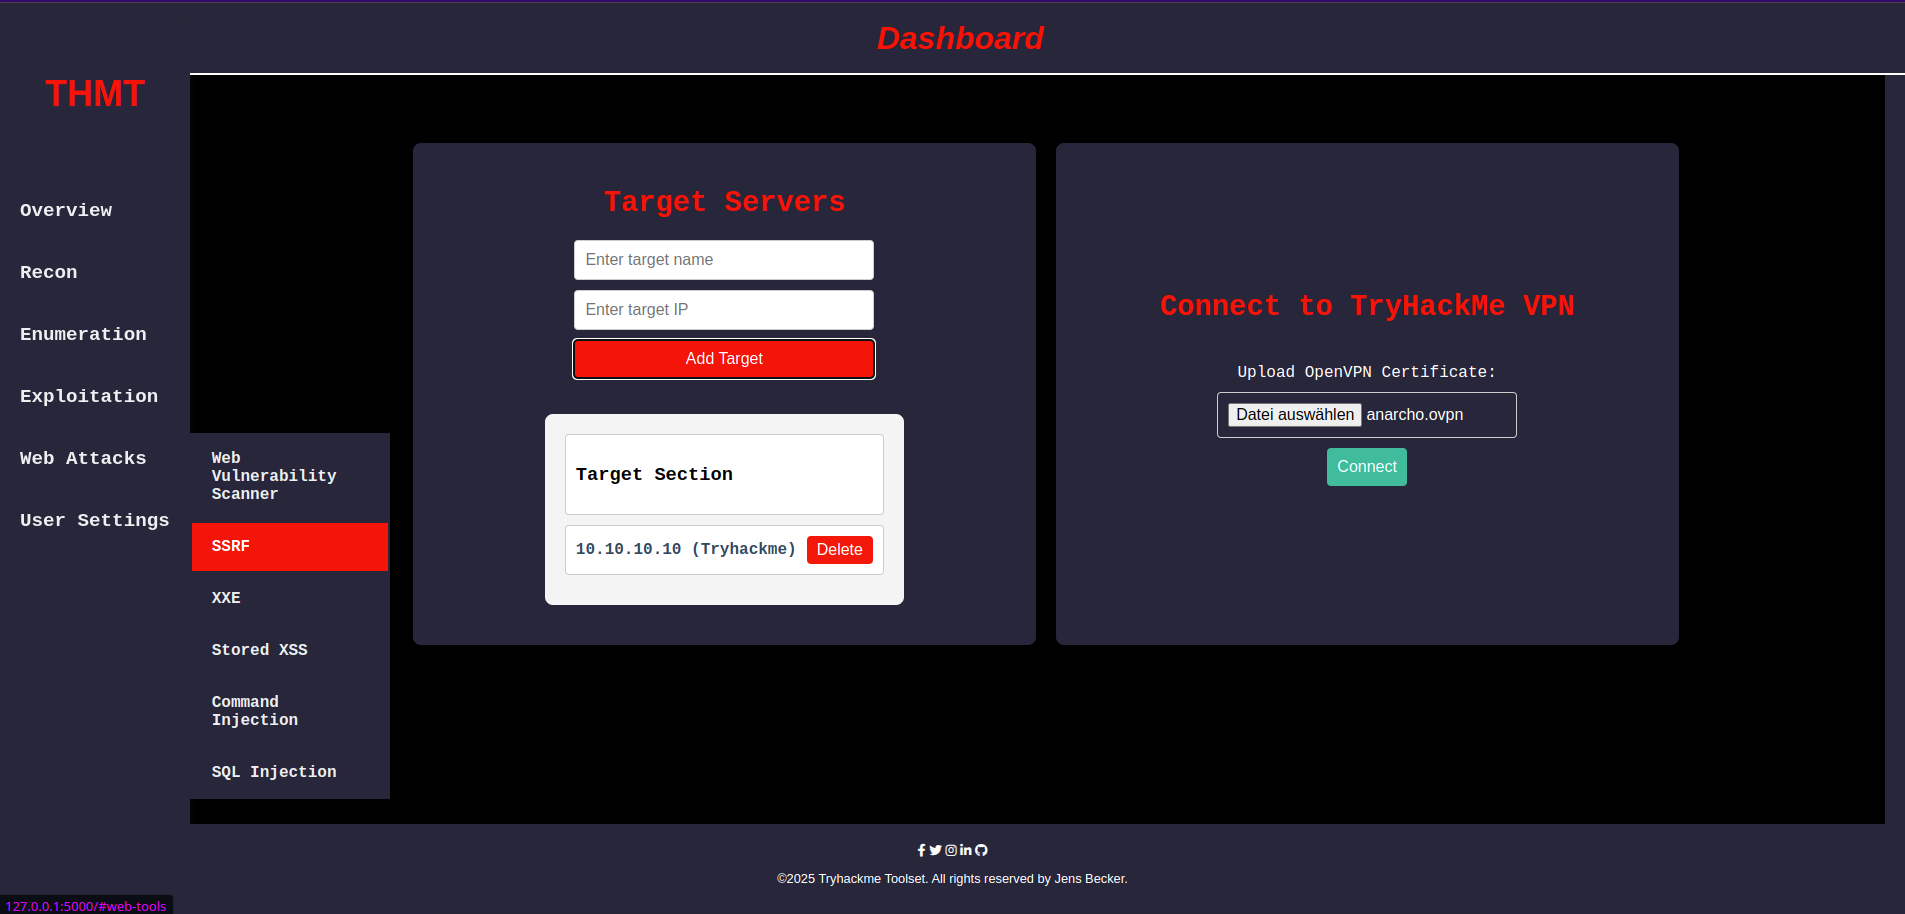
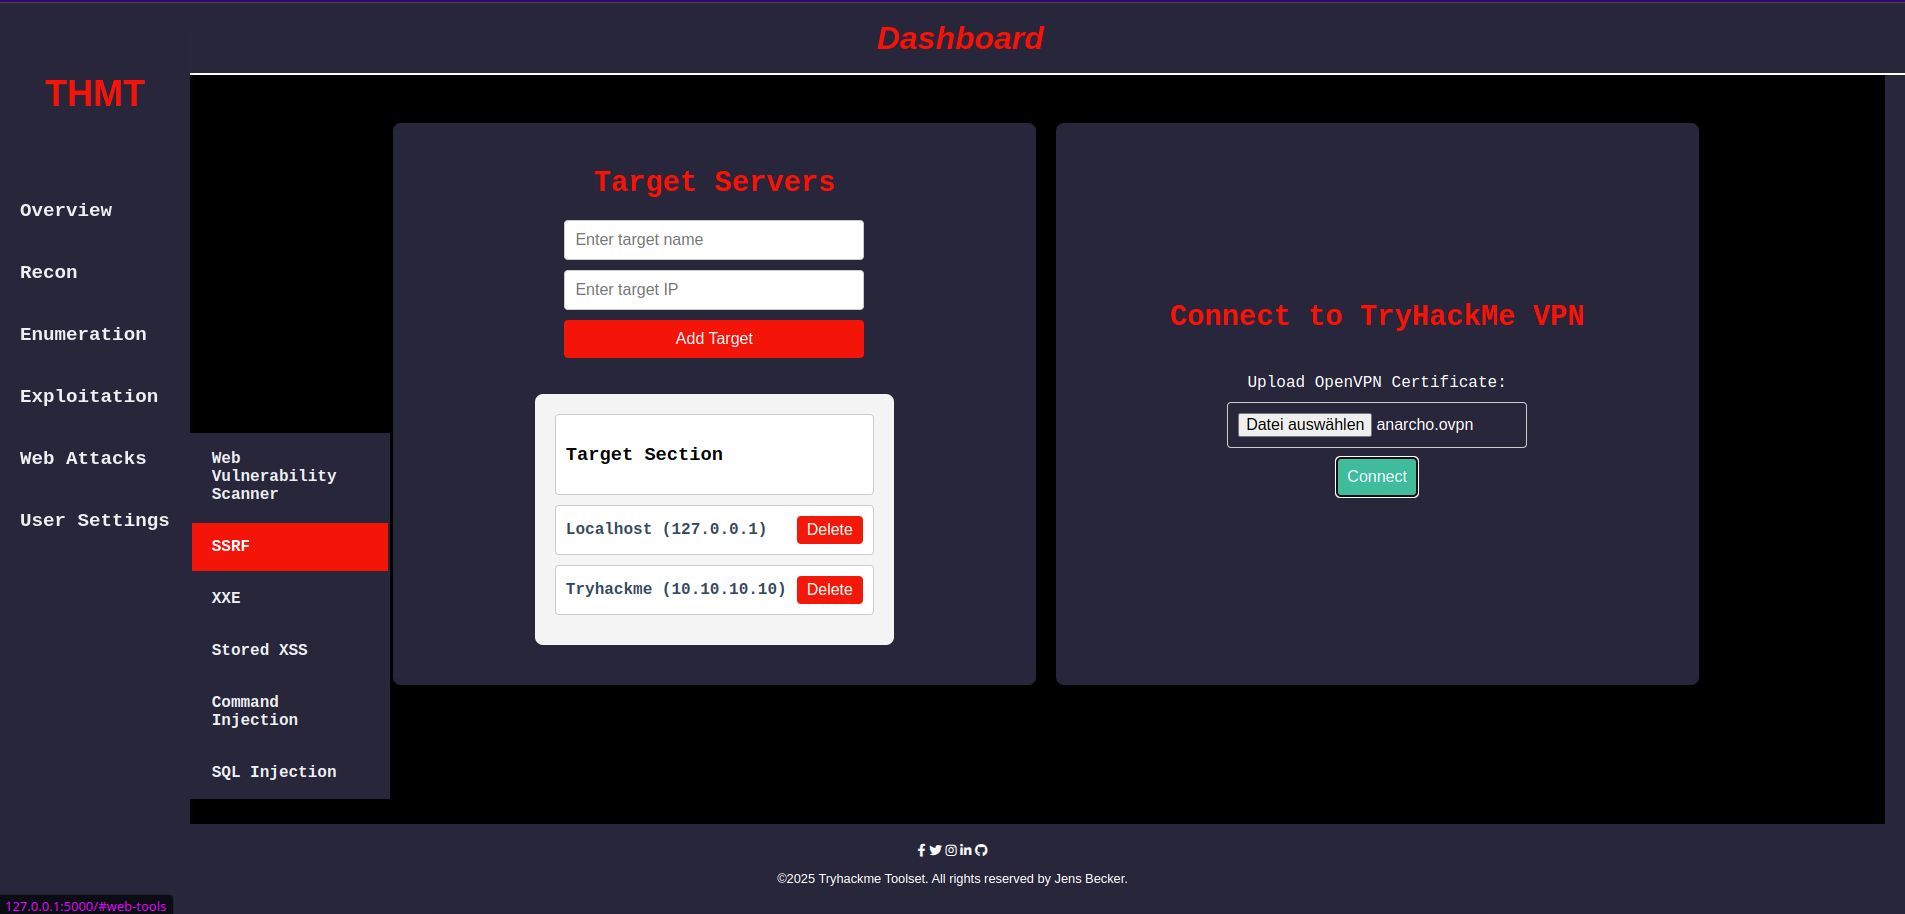
updated openvpn panel

Changed region(s): [[0.1858, 0.1225, 0.8982, 0.7659], [0.6194, 0.3982, 0.8052, 0.5514], [0.6194, 0.3063, 0.8362, 0.3676]]

diff --git a/backend/static/styles.css b/backend/static/styles.css
@@ -227,20 +227,19 @@ img {
 .main {
     padding: 20px;
     position: absolute;
-    top: 0;
+    top: 10px;
     left: 0;
     right: 0;
-    bottom: 0;
-    overflow: auto;
+    bottom: 10px;
     color: #28263a;
-    background-color: #ffffff;
-    padding-top: 20%;
+    background-color: #38383f73;
     row-gap: 20px;
     column-gap: 20px;
 }
 .content {
     color: #ffffff;
-    background-color:rgb(0, 0, 0);
+    border-top-left-radius: 5%;
+    background-color: black;
     padding-top: 20px;
     padding-bottom: 20px;
     columns: 1;
@@ -280,9 +279,8 @@ img {
 .dashboard-grid {
     display: grid;
     grid-template-columns: 1fr 1fr; /* Two columns */
-    grid-template-rows: 1fr 1fr;   /* Two rows */
+    grid-template-rows: 1fr 1fr 1fr;
     gap: 20px;                     /* Space between grid items */
-    padding: 20px;
     height: 100vh;                 /* Full viewport height */
     box-sizing: border-box;
 }
